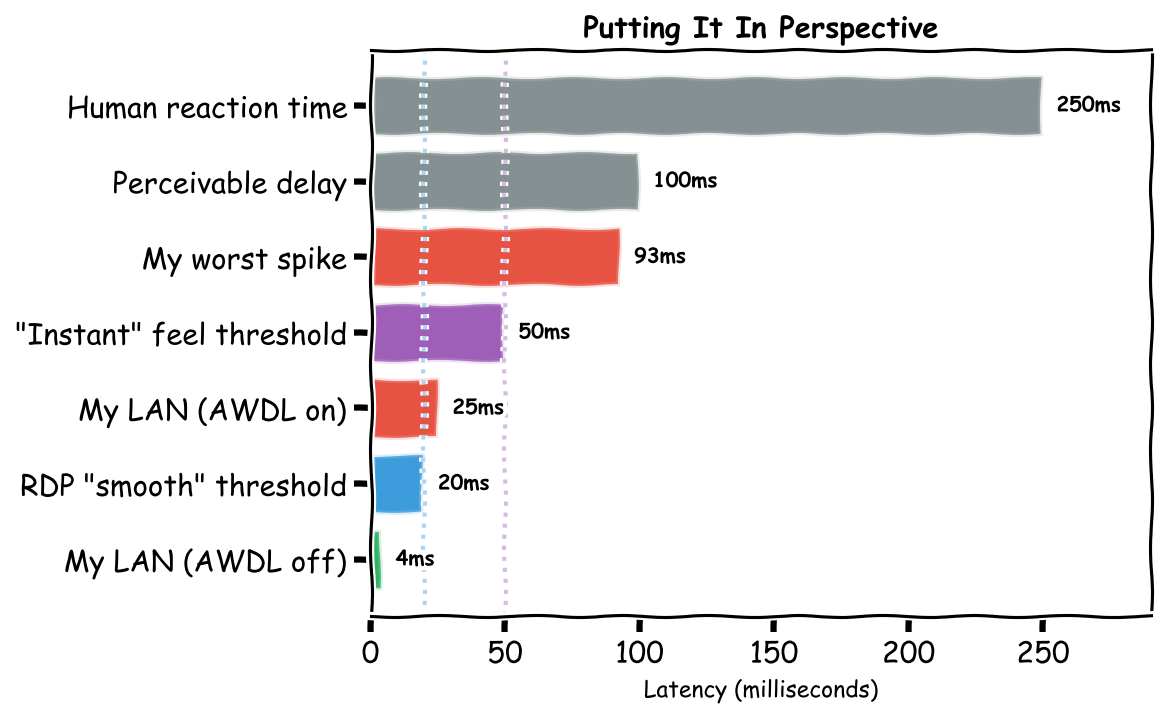
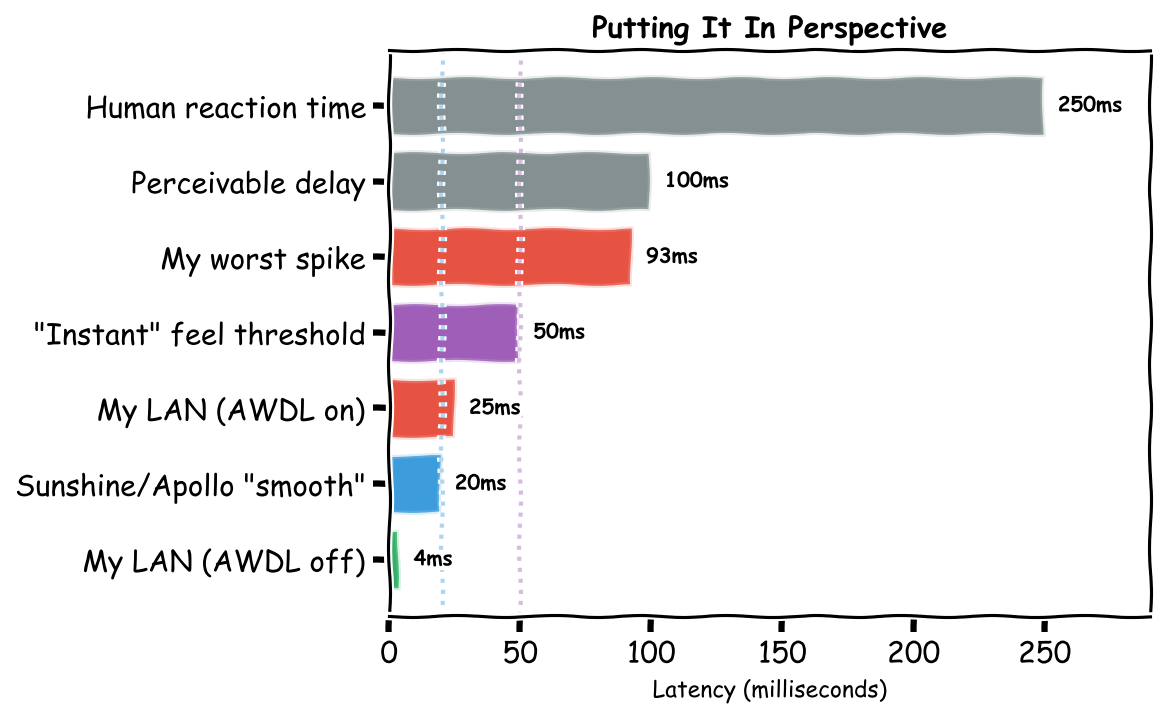
Update: Sunshine/Apollo refs, Synergy mention, dark mode

diff --git a/assets/css/style.scss b/assets/css/style.scss
@@ -1,0 +1,109 @@
+---
+---
+
+@import "minima";
+
+/* Dark mode - respects system preference */
+@media (prefers-color-scheme: dark) {
+  body {
+    background-color: #1a1a2e;
+    color: #eaeaea;
+  }
+
+  a {
+    color: #6db3f2;
+  }
+
+  a:visited {
+    color: #9b8adb;
+  }
+
+  a:hover {
+    color: #8cd3ff;
+  }
+
+  .site-header {
+    background-color: #16213e;
+    border-bottom-color: #0f3460;
+  }
+
+  .site-title, .site-title:visited {
+    color: #eaeaea;
+  }
+
+  .site-nav .page-link {
+    color: #eaeaea;
+  }
+
+  .site-footer {
+    background-color: #16213e;
+    border-top-color: #0f3460;
+  }
+
+  .post-content h1,
+  .post-content h2,
+  .post-content h3,
+  .post-content h4 {
+    color: #ffffff;
+  }
+
+  .post-title,
+  .post-link {
+    color: #ffffff;
+  }
+
+  .post-meta {
+    color: #9a9a9a;
+  }
+
+  code {
+    background-color: #2d2d44;
+    border-color: #3d3d5c;
+    color: #f8f8f2;
+  }
+
+  pre,
+  pre.highlight {
+    background-color: #2d2d44;
+    border-color: #3d3d5c;
+  }
+
+  pre code {
+    background-color: transparent;
+  }
+
+  blockquote {
+    color: #b0b0b0;
+    border-left-color: #4a4a6a;
+  }
+
+  table {
+    color: #eaeaea;
+  }
+
+  table th {
+    background-color: #2d2d44;
+    border-color: #3d3d5c;
+  }
+
+  table td {
+    border-color: #3d3d5c;
+  }
+
+  table tr:nth-child(even) {
+    background-color: #222238;
+  }
+
+  hr {
+    border-color: #3d3d5c;
+  }
+
+  /* Invert images slightly for dark mode readability */
+  img {
+    opacity: 0.9;
+  }
+
+  img:hover {
+    opacity: 1;
+  }
+}

diff --git a/_posts/2026-02-05-awdl-latency-killer.md b/_posts/2026-02-05-awdl-latency-killer.md
@@ -5,11 +5,13 @@ date: 2026-02-05
 description: "How I fixed 90ms latency spikes on my Mac by disabling a single feature I never use"
 ---
 
-**TL;DR:** If you're experiencing random lag spikes on your Mac during RDP, gaming, or video calls, disable AWDL (AirDrop's wireless protocol). It fixed my 90ms spikes instantly.
+**TL;DR:** If you're experiencing random lag spikes on your Mac during game streaming, video calls, or using tools like Synergy, disable AWDL (AirDrop's wireless protocol). It fixed my 90ms spikes instantly.
 
 ## The Problem
 
-I was getting frustrating mouse "floatiness" during Remote Desktop sessions. The cursor would feel responsive for a few seconds, then suddenly lag, then recover. Classic symptoms of network jitter.
+I was getting frustrating mouse "floatiness" when using [Synergy by Symless](https://symless.com/synergy) to share my keyboard and mouse across machines. The cursor would feel responsive for a few seconds, then suddenly lag, then recover. Classic symptoms of network jitter.
+
+I also noticed the same issue with [Sunshine](https://github.com/LizardByte/Sunshine)/[Apollo](https://github.com/ClassicOldSong/Apollo) game streaming - input lag that came and went in a regular pattern.
 
 I wrote a quick Python script to measure LAN latency to my router every 200ms. The results were damning:
 
@@ -96,7 +98,7 @@ Why does this matter? Here's where those latencies sit relative to human percept
 - **100ms**: Threshold where delay becomes consciously perceivable
 - **250ms**: Average human visual reaction time
 
-For RDP, the rule of thumb is <20ms for "smooth" and <50ms for "usable". With AWDL on, 29% of my packets exceeded the smooth threshold. With it off, zero did.
+For game streaming and tools like Synergy, the rule of thumb is <20ms for "smooth" and <50ms for "usable". With AWDL on, 29% of my packets exceeded the smooth threshold. With it off, zero did.
 
 ## The Scripts
 
@@ -107,7 +109,7 @@ I've open-sourced the diagnostic tools on [GitHub](https://github.com/adamlovatt
 
 ## Conclusion
 
-Apple's seamless device ecosystem comes at a cost: AWDL constantly scanning for nearby devices, interrupting your Wi-Fi multiple times per second. If you're not using AirDrop, AirPlay, or Handoff, turn it off. Your RDP sessions, video calls, and games will thank you.
+Apple's seamless device ecosystem comes at a cost: AWDL constantly scanning for nearby devices, interrupting your Wi-Fi multiple times per second. If you're not using AirDrop, AirPlay, or Handoff, turn it off. Your Sunshine/Apollo streams, Synergy sessions, and video calls will thank you.
 
 ---
 
